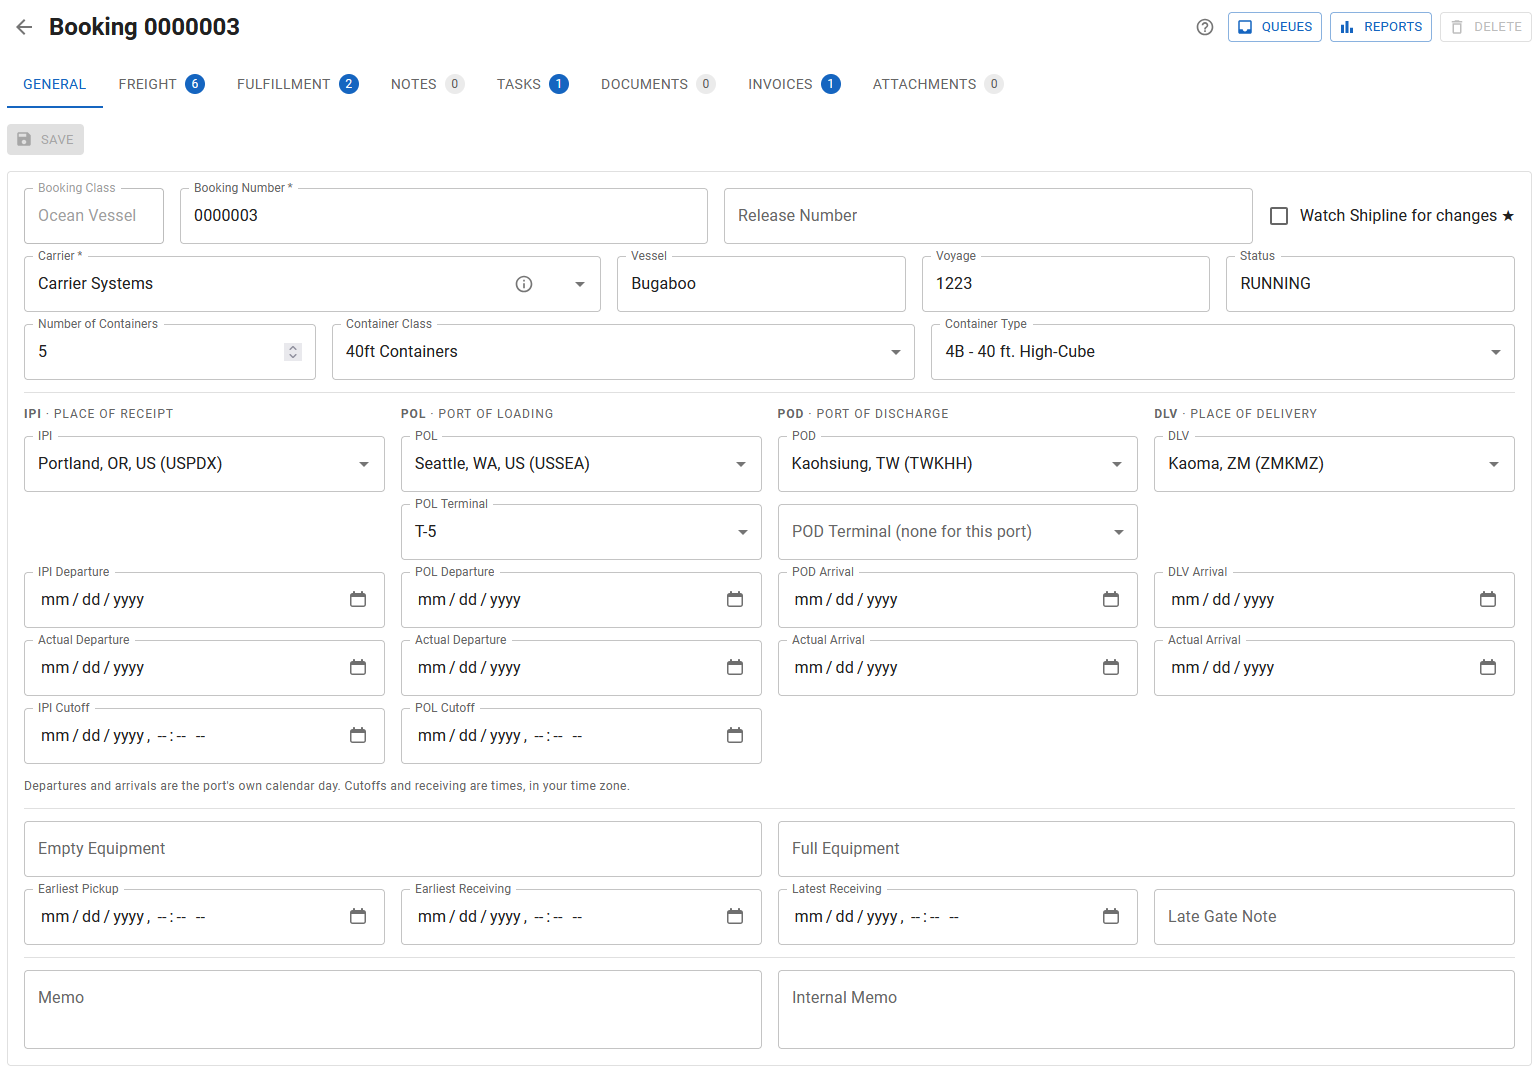
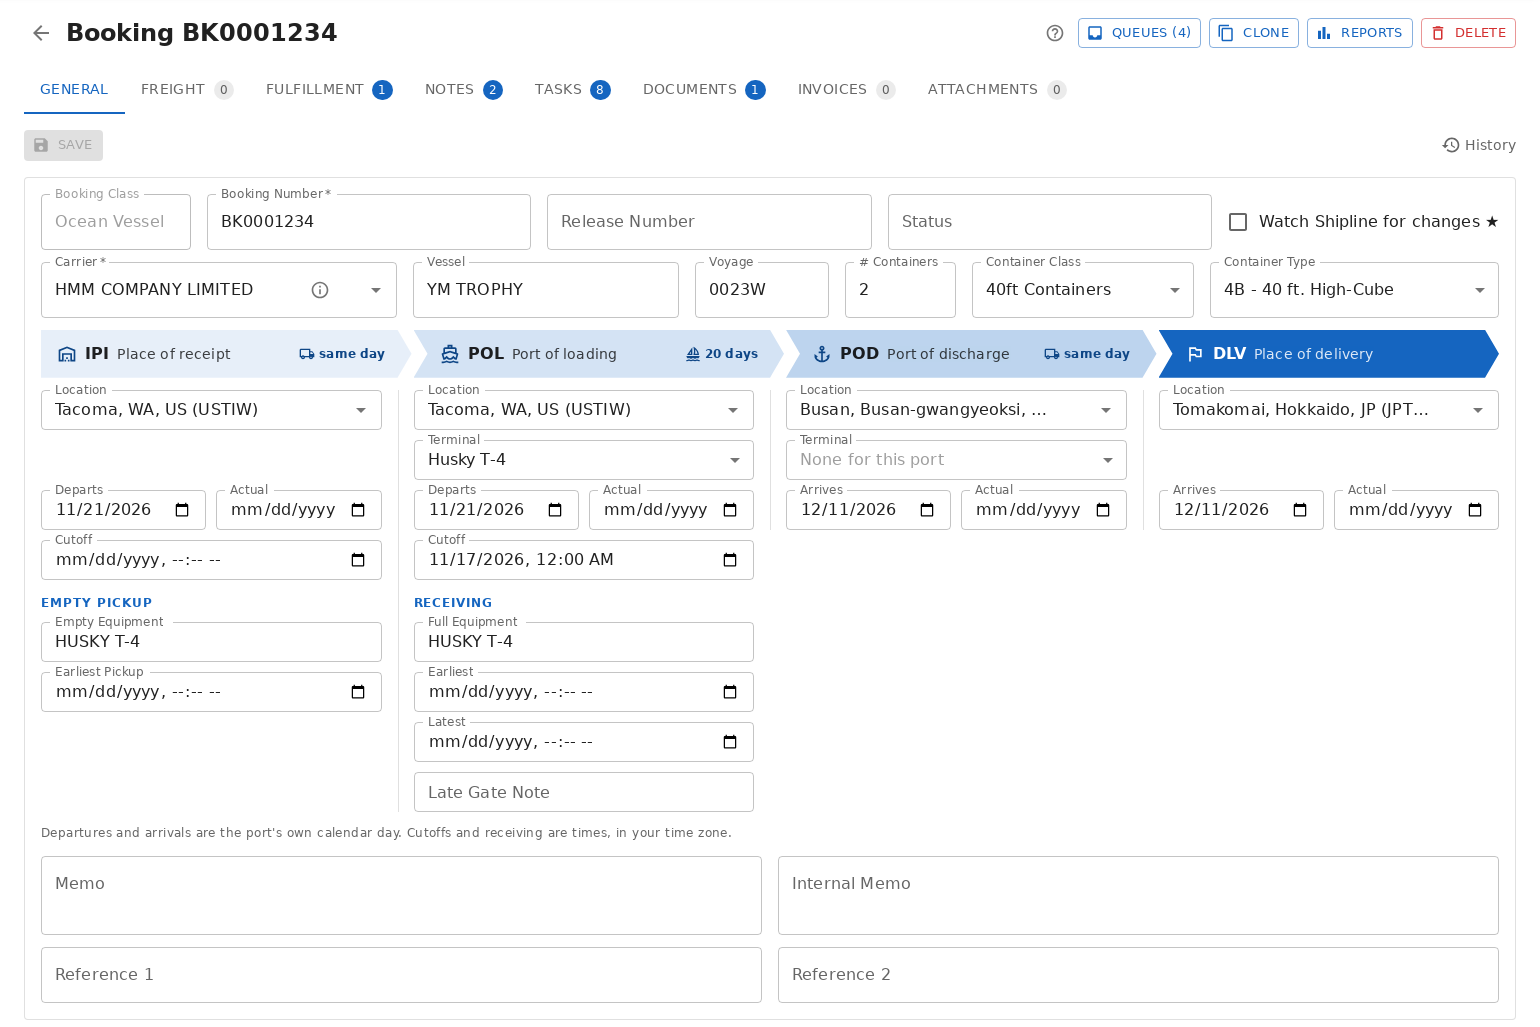
Recapture the booking General tab screenshot (legs, references); Create a Booking: cut-offs are on General, Freight has the freight class and estimated freight rate

diff --git a/docs/search-paths.js b/docs/search-paths.js
@@ -231,4 +231,4 @@ window.SEARCH_PATHS = [
   '/release-notes/2026.1',
   '/release-notes/archive'
 ];
-window.SEARCH_VERSION = '1815d96099f3';
+window.SEARCH_VERSION = 'dcce2538ed70';

diff --git a/docs/instructions/bookings.md b/docs/instructions/bookings.md
@@ -11,9 +11,12 @@ mean the same record. The booking number from the shipline is its identifier.
      **POD** (port of discharge) and **DLV** (place of delivery), each with its
      planned and actual dates. The arrows over the legs show the days from one
      leg to the next, in red if the dates are out of order.
+   - The cut-offs, empty pickup and receiving, under their legs.
    - Vessel, voyage, container class and type, and quantity.
-4. On **Freight**, enter the shipper and forwarder, the cut-off dates (cargo due,
-   documents due, earliest pickup and so on) and the bill of lading number.
+   - Memos and references, at the bottom.
+4. On **Freight**, enter the shipper and forwarder, documents due, the freight
+   class, the bill of lading and the ITN, and pick the **Estimated Freight Rate**.
+   See [Bookings](../context/B008.md?id=freight-rate).
 5. On **Fulfillment**, use **Add line item** to put each sales line (and purchase
    line, for back-to-back trades) on the booking, and enter the assigned
    quantities.
